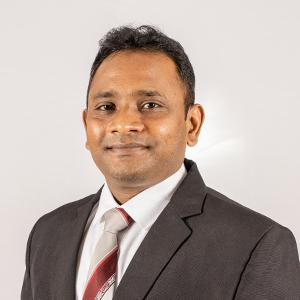
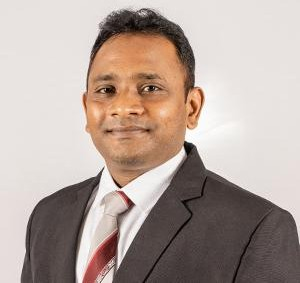
Photo of ceo and director placed and fixed scroll down guide

diff --git a/src/components/Leadership.tsx b/src/components/Leadership.tsx
@@ -1,6 +1,6 @@
 import { motion } from 'framer-motion';
-import ceoImg from '../assets/ceo_female.png';
-import acadImg from '../assets/academic_male.png';
+import ceoImg from '../assets/Dr.Angel.jpeg';
+import acadImg from '../assets/Mr mirthunmoorthy.jpeg';
 import saravanaImg from '../assets/Dr.R.Saravana Moorthy.jpg';
 import './Leadership.css';
 

diff --git a/src/components/Leadership.css b/src/components/Leadership.css
@@ -33,6 +33,7 @@
   width: 100%;
   height: 100%;
   object-fit: cover;
+  object-position: top center;
   transition: transform 0.7s cubic-bezier(0.25, 1, 0.5, 1);
 }
 
@@ -100,7 +101,7 @@
     gap: 1.5rem;
   }
   .leadership-card {
-    aspect-ratio: 4 / 5;
+    aspect-ratio: 3 / 4;
   }
   .leadership-info {
     transform: translateY(0);

diff --git a/src/index.css b/src/index.css
@@ -243,6 +243,7 @@ img {
   top: 0;
   z-index: 1;
   min-height: 100vh;
+  min-height: 100dvh;
   display: flex;
   align-items: center;
   justify-content: center;
